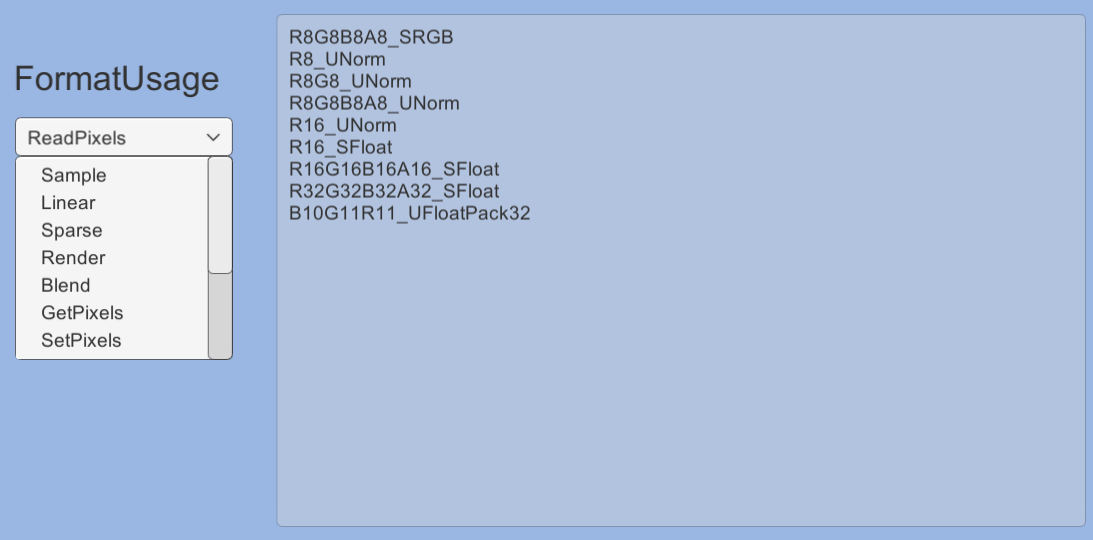
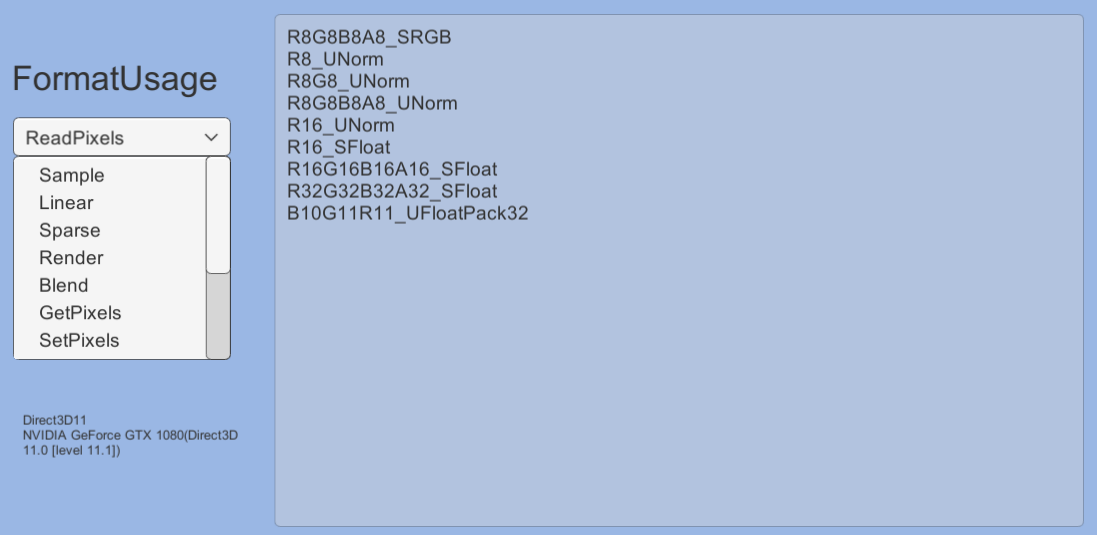
add device info

diff --git a/Assets/Check.cs b/Assets/Check.cs
@@ -8,6 +8,8 @@ public class Check : MonoBehaviour
 {
     [SerializeField]
     private Text result;
+    [SerializeField]
+    private Text graphicInfo;
 
 
     [SerializeField]
@@ -44,6 +46,8 @@ public class Check : MonoBehaviour
 
     private void Awake()
     {
+        graphicInfo.text = SystemInfo.graphicsDeviceType.ToString() + "\n"+
+            SystemInfo.graphicsDeviceName + "("+SystemInfo.graphicsDeviceVersion +")";
         stringBuilder = new StringBuilder(512);
         InitDropDownMenu();
     }
